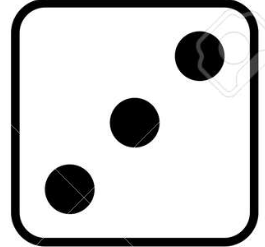
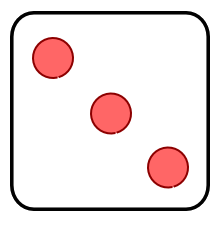
New Exercises

diff --git a/style.css b/style.css
@@ -2,9 +2,9 @@
 
 body{
     font-family: Arial, Helvetica, sans-serif;
-    background-color: #BA9790;
+    background-color: #ffffff;
     text-shadow: 1px 1px 5px rgba(0, 0, 0, 0.432);
-    color: #CEF7A0;
+    color: #fc4e4e;
 }
 
 #container{
@@ -12,14 +12,15 @@ body{
     text-align: center;
     font-size: 2rem;
     font-weight: bold;
-    background-color: #914d76;
+    background-color: #351f72;
     width: 800px;
     height: 500px;
     border-radius: 20px;
+    box-shadow: 0px 0px 5px 5px rgb(243, 63, 63);
 }
 h1{
     padding: 40px;
-    color: #CEF7A0;
+    color: #fc5252;
 }
 
 button{
@@ -27,16 +28,16 @@ button{
     padding: 10px 15px;
     border-radius: 10px;
     border: none;
-    background-color: #75d805;
+    background-color: #fa1c1c;
     color: white;
     font-weight: bold;
     cursor: pointer;
     &:hover{
         transition: 0.2s;
-        background-color: #68ac1a;
+        background-color: #7e1414;
     }
     &:active{
-        background-color: #c1ff79;
+        background-color: #ff8282;
     }
 }
 
@@ -45,4 +46,13 @@ input{
     width: 150px;
     text-align: center;
     font-weight: bold;
+}
+
+#diceResult{
+    margin: 25px;
+}
+
+#diceImages img{
+    width: 120px;
+    margin: 5px;
 }
